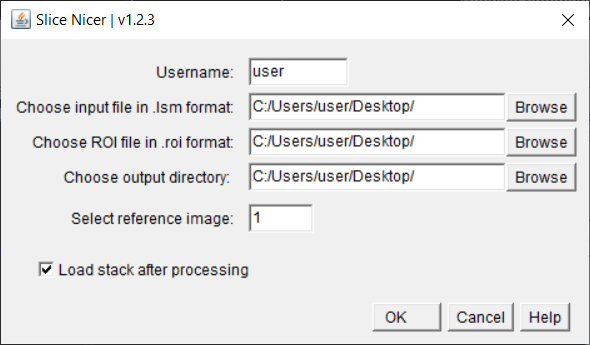
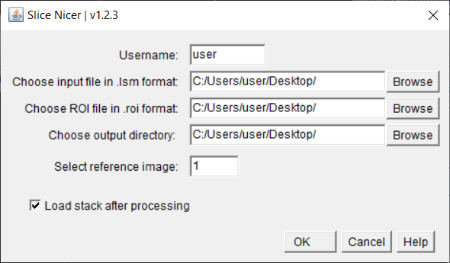
docs: improved screenshot

diff --git a/readme.md b/readme.md
@@ -14,7 +14,7 @@ SliceNicer is an ImageJ macro for normalization of time lapse images against a t
 
 ## Screenshot
 
-<img alt="Screenshot" src=".assets/screenshot.png" style="max-width: 500px !important;">
+<img alt="Screenshot" src=".assets/screenshot.png">
 
 ## Usage
 
